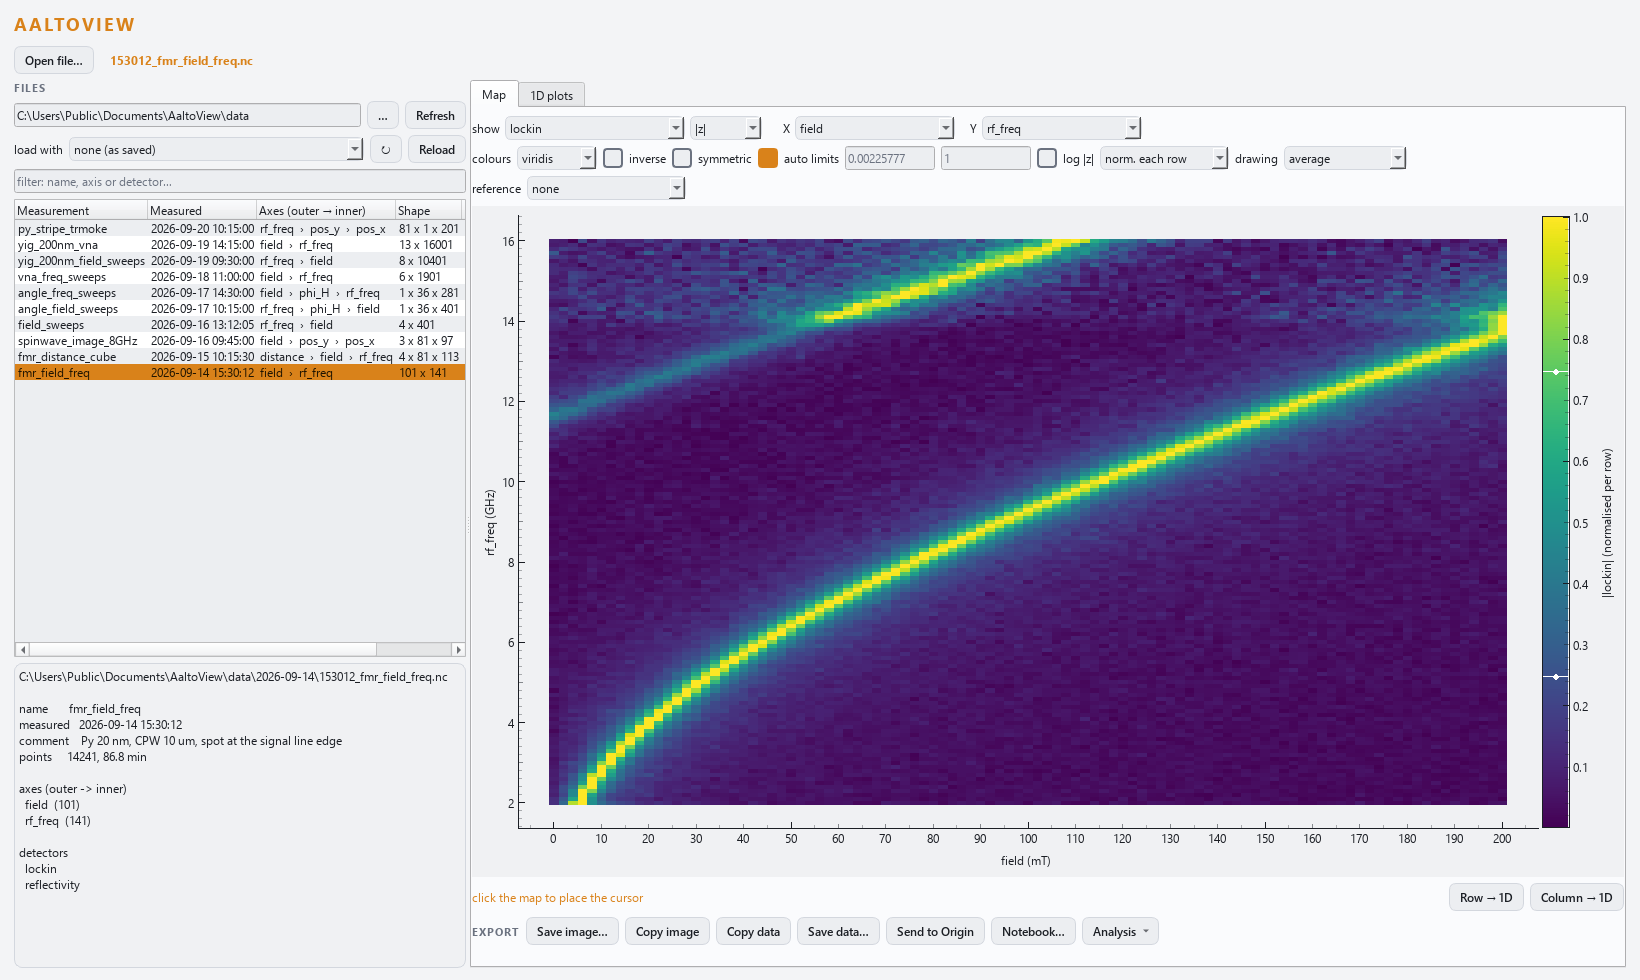
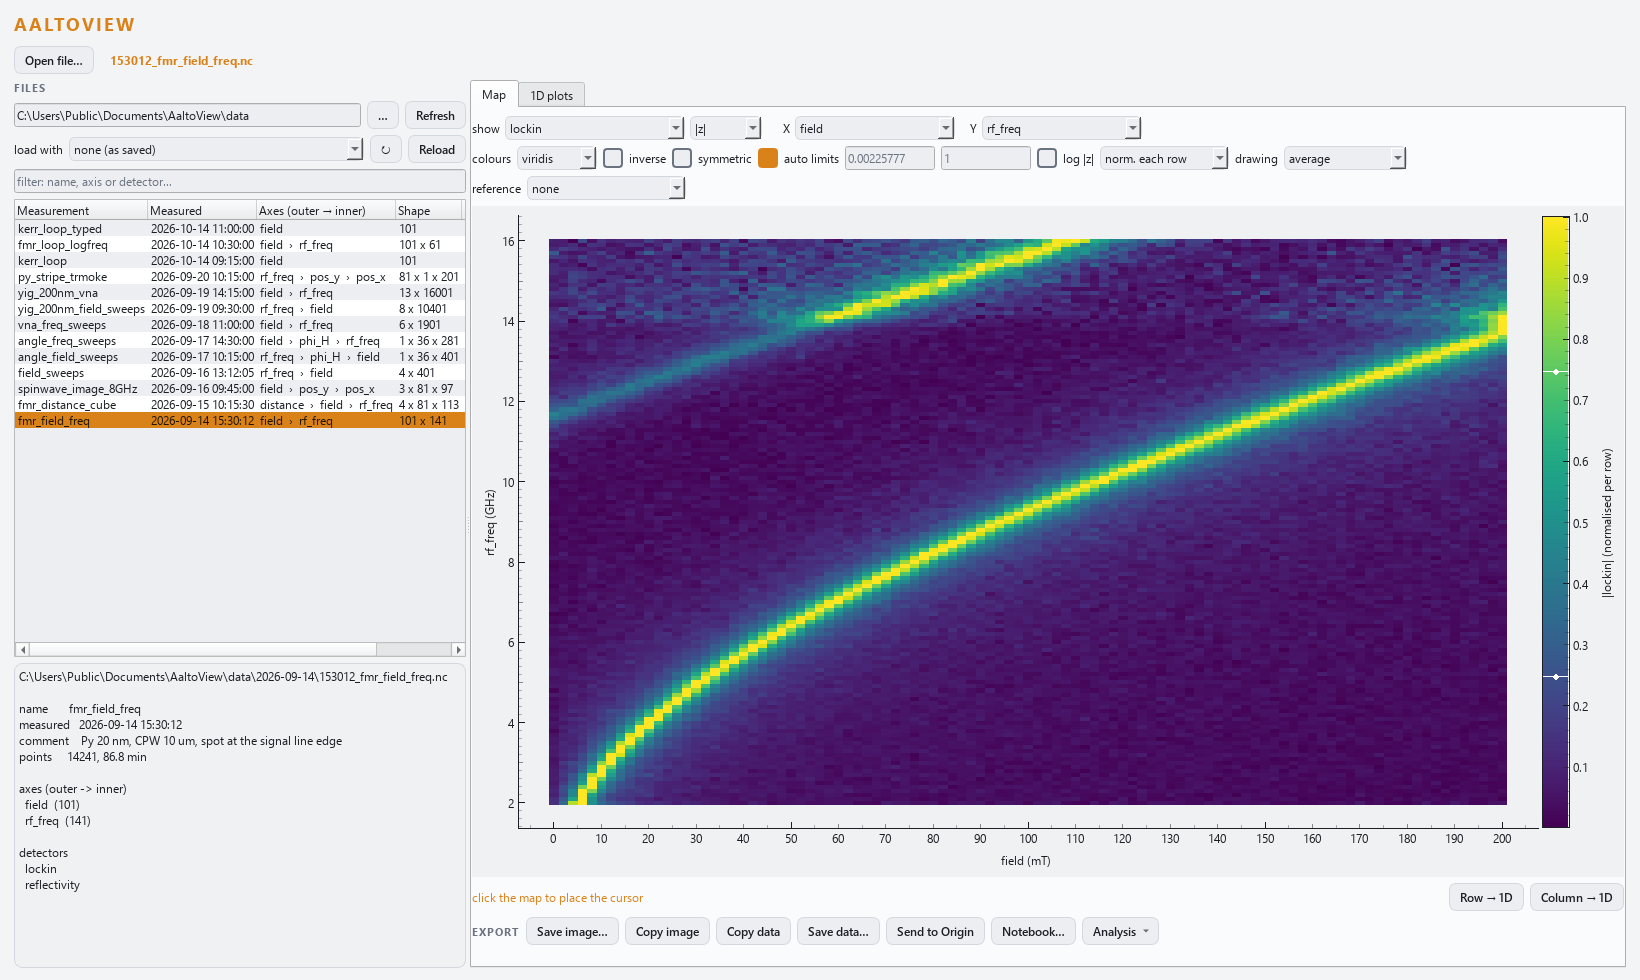
Docs: hysteresis loops in the README and three new renders
hysteresis-loop (dark + light): a Kerr loop, one colour per run;
hysteresis-map: FMR on the way down of the loop against a log-spaced
frequency, cells at their true widths. The other screenshots are re-rendered
(the file list has the new demo files; the YIG reference map now shows its
uneven field steps at their true widths).

Changed region(s): [[0.0, 0.2143, 0.2799, 0.4592]]

diff --git a/tools/render_docs.py b/tools/render_docs.py
@@ -375,6 +375,33 @@ def pose_stripe_map(v):
     v.tabs.setCurrentWidget(m)
 
 
+def pose_loop(v):
+    """A Kerr hysteresis loop (field 0 -> 100 -> -100 -> 100 mT, a `segments`
+    axis): one line per run, the down run drawn from the up run's last point."""
+    select_file(v, "091500_kerr_loop")
+    lines = v.lines
+    lines.controls.x_combo.setCurrentText("field")
+    lines.add_current()
+    lines.show_preview.setChecked(False)
+    lines.redraw()
+    v.tabs.setCurrentWidget(lines)
+
+
+def pose_loop_map(v):
+    """FMR through the loop against a LOG-spaced frequency: the map shows ONE
+    run (here the way down -- the line bends where the film switches), each
+    frequency cell drawn at its true width."""
+    select_file(v, "103000_fmr_loop_logfreq")
+    m = v.map
+    m.controls.x_combo.setCurrentText("field")
+    m.controls.y_combo.setCurrentText("rf_freq")
+    m.controls.set_run_choice("field", 1)
+    m.norm_combo.setCurrentIndex(2)                             # each column
+    m.refresh()
+    m._place_cursor(25, 40)                                     # 25 mT on the way down
+    v.tabs.setCurrentWidget(m)
+
+
 def main() -> int:
     global DATA
     # A NEUTRAL folder: its path is on screen, and a published picture must not
@@ -394,6 +421,9 @@ def main() -> int:
     shot(app, "map-rows-light", "light", pose_map_rows)
     shot(app, "map-reference", "dark", pose_map_reference)
     shot(app, "map-reference-light", "light", pose_map_reference)
+    shot(app, "hysteresis-loop", "dark", pose_loop)
+    shot(app, "hysteresis-loop-light", "light", pose_loop)
+    shot(app, "hysteresis-map", "dark", pose_loop_map)
     shot_fit(app, "fmr-fit", "dark")
     shot_fit(app, "fmr-fit-light", "light")
     shot_dispersion(app, "fmr-dispersion", "dark")

diff --git a/README.md b/README.md
@@ -74,7 +74,37 @@ a complex signal are taken coherently.*
 | ![normalised, stacked field sweeps](docs/curves-normalised-light.png) | ![map with every line normalised](docs/map-rows-light.png) |
 | Field sweeps at 6–12 GHz, each normalised to its peak and stacked. | The same kind of map with every frequency line scaled to its own peak, so the resonance can be followed where the signal is weak. Light theme. |
 | ![VNA map divided by its reference](docs/map-reference.png) | ![the same, light theme](docs/map-reference-light.png) |
-| |S21| of 200 nm YIG, the field set and the frequency swept, every line ÷ the 800 mT line: the cables, amplifier and delay cancel, and the uniform mode and the weaker PSSW are left. | The same, light theme. |
+| |S21| of 200 nm YIG, the field set and the frequency swept, every line ÷ the 800 mT line: the cables, amplifier and delay cancel, and the uniform mode and the weaker PSSW are left. The field steps are uneven (25 … 300 mT, then 800 mT), so every cell reaches halfway to its neighbours, as in a saved figure. | The same, light theme. |
+
+### Up and down: hysteresis loops
+
+An axis swept up AND down (AaltoFlow's `segments` axis, e.g. a field
+0 → 100 → −100 → 100 mT) visits the same values more than once. The file says
+which **run** every point is on (`<dim>_segment`, `<dim>_direction`; see
+[The files it reads](#the-files-it-reads)), and the viewer keeps the runs apart
+everywhere instead of folding the loop onto itself:
+
+- **1D plots**: one line per run, each its own colour, named "up" / "down" (or
+  "seg 2 down" for more than two); a run that starts where the last one stopped
+  is drawn from that point, so the loop is closed as measured. A **runs**
+  chooser shows every run, one run alone, or every point against its point
+  number.
+- **Map**: ONE run at a time (two values cannot share a cell), each drawn
+  ascending — or all points by point number. The cursor and the cuts name the
+  run and hold the file's own point.
+- A **held** loop dimension names its run on the slider ("50 mT · seg 2 down");
+  **mean of run** averages one run; an average across runs is marked
+  "up and down mixed", never silently.
+- **Exports**: `.dat` / `.csv` get `<x>_segment` and `<x>_direction` columns,
+  Origin gets one X/Y column pair per run, the notebook recomputes the same
+  split, and an analysis module receives one curve per run, labelled.
+- An older file of a typed loop (no `<dim>_segment`) is split where its values
+  turn back — the same rule the scan engine uses.
+
+| | |
+|---|---|
+| ![a Kerr hysteresis loop, one colour per run](docs/hysteresis-loop.png) | ![FMR on the way down, log-spaced frequency](docs/hysteresis-map.png) |
+| A Kerr loop, field 0 → 100 → −100 → 100 mT: the virgin run, the way down and the way up, each its own line. | FMR through the same loop on the way DOWN (one run of three), frequency log-spaced 1–20 GHz: the resonance follows the field along the magnetisation until the film switches at −30 mT. Every frequency cell is drawn at its true width. |
 
 ## Loading scripts
 
@@ -201,7 +231,7 @@ new viewer). Use `--new-window` to force a second one. A start without a file
 ## Try it without lab data
 
 ```bash
-uv run python tools/make_demo_data.py demo_data     # ten simulated measurements
+uv run python tools/make_demo_data.py demo_data     # thirteen simulated measurements
 uv run aaltoview --folder demo_data
 ```
 
@@ -215,7 +245,9 @@ analysis modules:
 - VNA sweeps with a cable background;
 - 200 nm YIG with four standing spin waves, both as field sweeps and as VNA
   sweeps;
-- a spin-wave line scan along a permalloy stripe.
+- a spin-wave line scan along a permalloy stripe;
+- a Kerr hysteresis loop, the same loop against a log-spaced frequency (FMR),
+  and an older-style file of a typed loop without the segment coordinates.
 
 `tools/render_docs.py` regenerates them and every screenshot above.
 
@@ -255,7 +287,15 @@ attribute, and these conventions from the AaltoFlow scan engine:
 - dataset attributes `name`, `comment`, `dims` (outer → inner), `n_points`,
   `seconds`, `recipe_json`;
 - autosaves are named `<YYYY-MM-DD>/<HHMMSS>_<name>.nc`, which is where the
-  "measured" time in the file list comes from.
+  "measured" time in the file list comes from;
+- an axis that goes up AND down keeps its values as visited (not unique, not
+  monotonic) plus `<dim>_segment` (int32, the run, 0 = first) and
+  `<dim>_direction` (int8, +1 / −1) along it, and the attributes
+  `segments_json` / `segment_source` / `n_segments` on `<dim>`. Run k is
+  `ds.isel(<dim>=np.flatnonzero(ds["<dim>_segment"] == k))` — use `isel`, never
+  `sel`, on such a dimension. `aaltoview.segments.segments_of(ds, dim)` reads
+  them (and splits an older file at its reversals). The contract is
+  AaltoFlow's `docs/DEVELOPER_NOTES.md` section 4l.
 
 ## Not yet
 

diff --git a/CLAUDE.md b/CLAUDE.md
@@ -12,6 +12,12 @@ NanoSpin group, Aalto University. Read `README.md` first.
   engine**: change both together.
 - `src/aaltoview/view.py` -- the cube reduction (hold / average per dimension,
   complex reduced BEFORE |z| or arg). No Qt; tested headless.
+- `src/aaltoview/segments.py` -- axes that go UP AND DOWN (hysteresis loops):
+  reads `<dim>_segment` / `segments_json` (AaltoFlow DEVELOPER_NOTES 4l), splits
+  an older typed loop at its reversals (a copy of scan-core's rule, pinned by
+  tests/test_segments.py). The rule everywhere: one line per run, a map shows
+  one run (or all by point #), a held value names its run, an average says if
+  it mixes up and down; `Selection.runs` carries the choice into every export.
 - `src/aaltoview/export.py` -- figures, `.dat`/`.csv`, notebooks (the notebook
   carries its OWN reduction code; a test executes it and compares with view.py).
 - `src/aaltoview/origin.py` -- Origin push, run in a child process.
